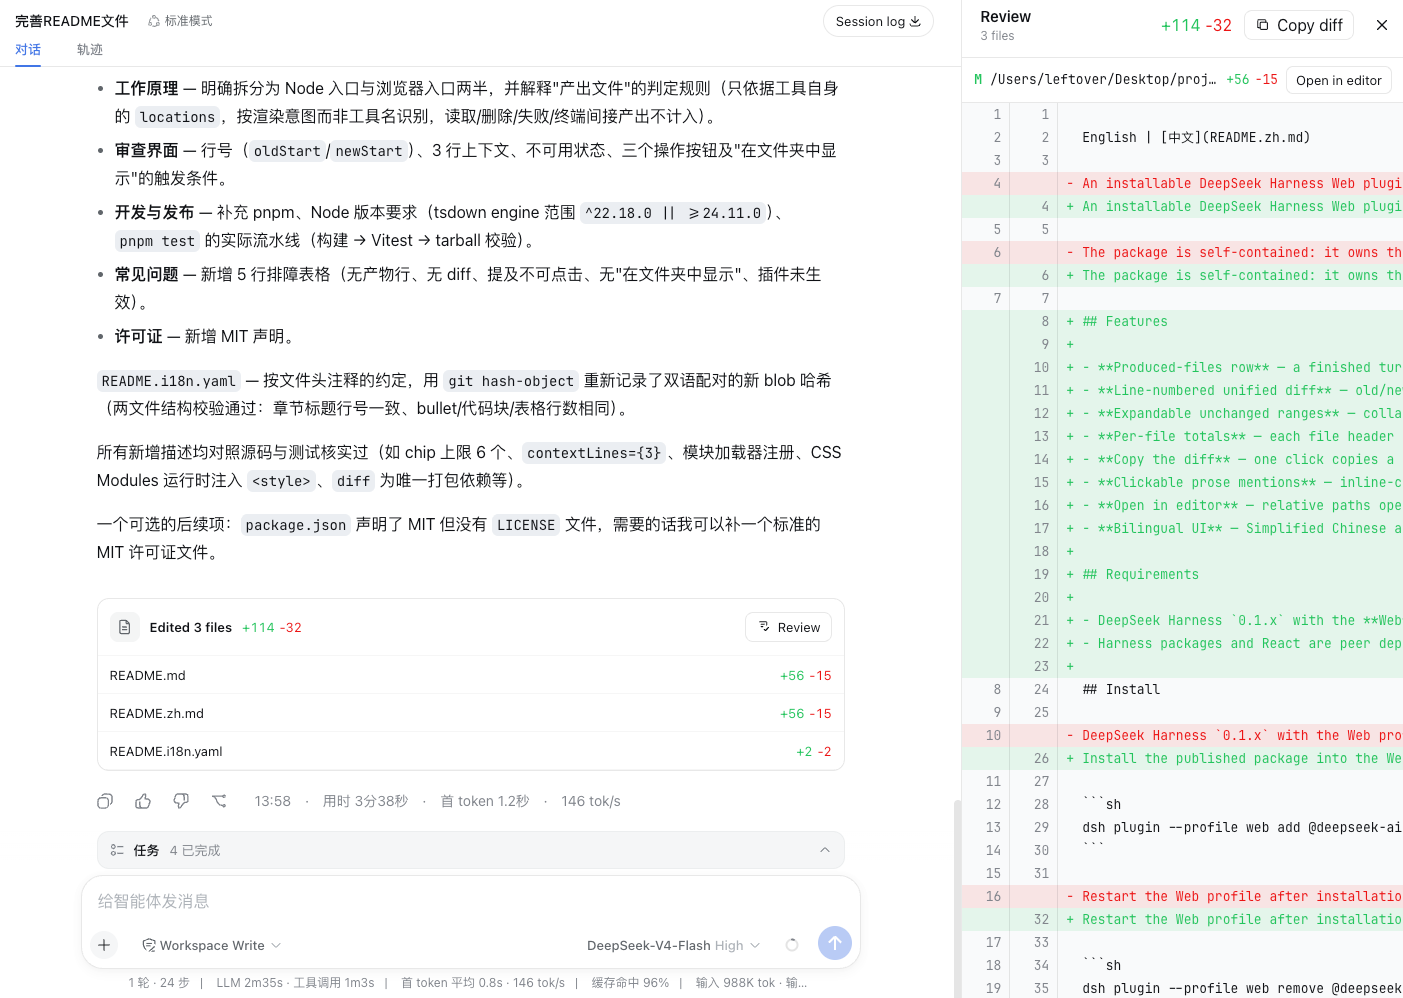
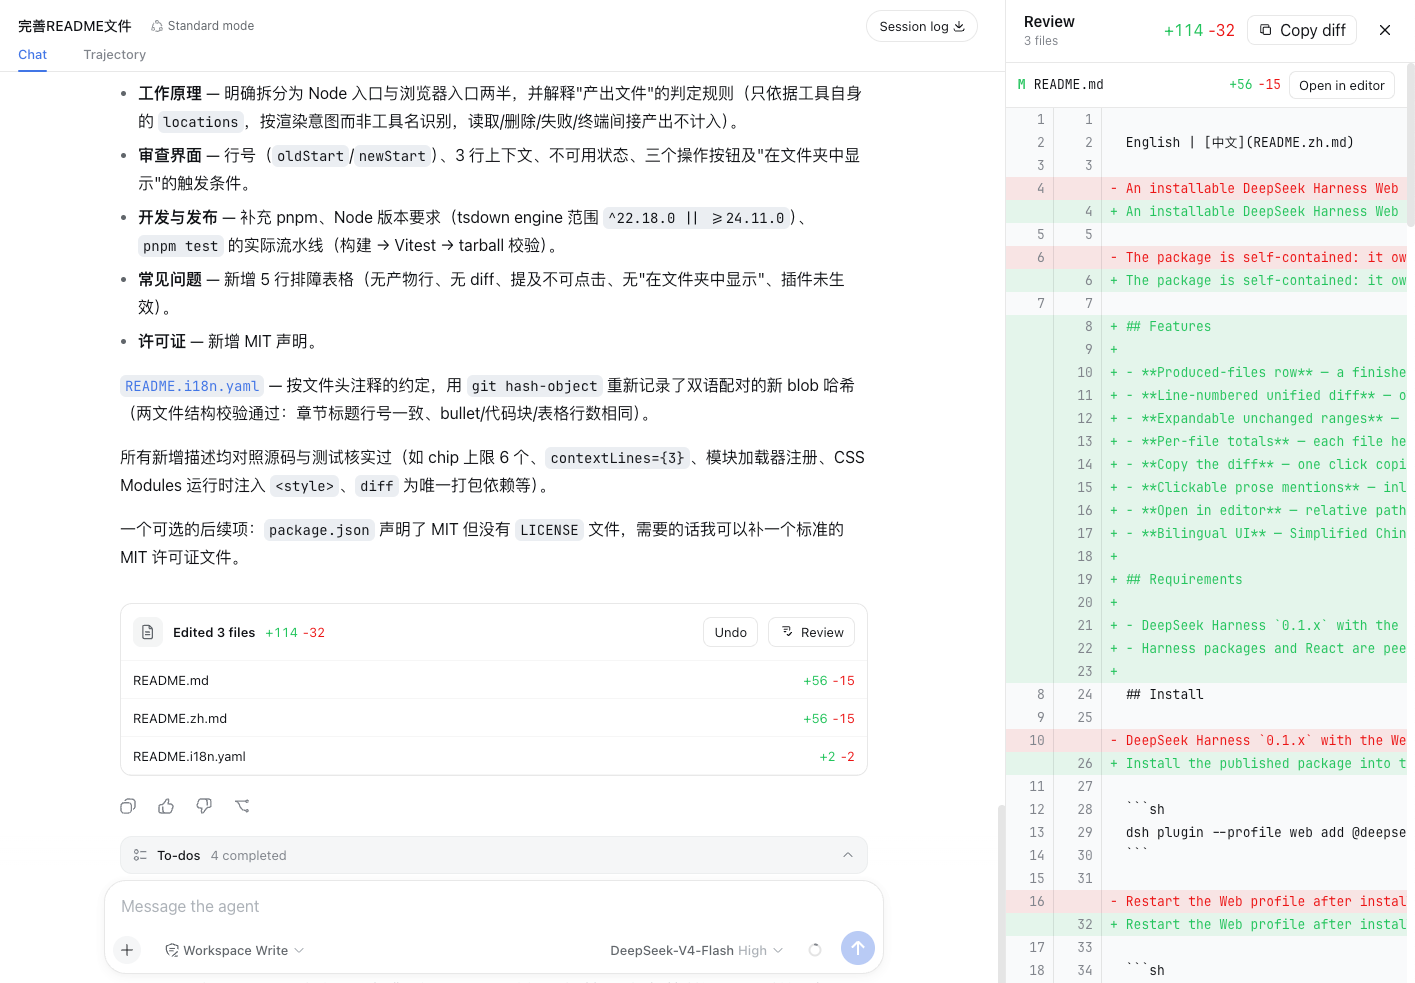
docs: update README

diff --git a/README.zh.md b/README.zh.md
@@ -2,10 +2,11 @@
 
 # DSH File Review
 
-**无需离开 DeepSeek Harness Web，立即审查 Agent 刚刚修改的每个文件。**
+**无需离开 DeepSeek Harness Web，即可立即审查 Agent 刚刚修改的每个文件。**
 
 ![DeepSeek Harness 0.1.x](https://img.shields.io/badge/DeepSeek%20Harness-0.1.x-4f46e5)
 ![Web profile](https://img.shields.io/badge/profile-Web-0ea5e9)
+[![npm version](https://img.shields.io/npm/v/dsh-file-review.svg)](https://www.npmjs.com/package/dsh-file-review)
 [![GitHub repository](https://img.shields.io/badge/GitHub-Repository-181717?logo=github)](https://github.com/left0ver/dsh-file-review)
 [![MIT License](https://img.shields.io/badge/license-MIT-22c55e)](LICENSE)
 
@@ -13,18 +14,18 @@
 
 </div>
 
-
-
-> **零配置：**安装插件、重启 Web profile，然后像平时一样使用 DeepSeek Harness 即可。
-
-# 怎么用
+## 怎么用
 
 <p align="center">
   <strong>💬 Chat &nbsp;→&nbsp; ✨ Generate &nbsp;→&nbsp; 📄 Click a changed file &nbsp;→&nbsp; 🔍 Review</strong>
 </p>
 
-# 效果预览
+## 效果预览
 ![leftover](./assests/preview.png)
+
+## 功能
+1. Diff面板，立即审查 Agent 刚刚修改的每个文件。
+2. 支持撤销操作，可以撤销Agent这一轮的修改。
 
 ## 快速开始
 
@@ -40,17 +41,8 @@ dsh plugin --profile web add dsh-file-review
 dsh web
 ```
 
-### 3. 审查下一轮产出
+### 3. 享受它
 
-让 Agent 创建或修改文件。本轮任务结束后：
-
-1. 在最终回复下方找到产物文件标签。
-2. 点击文件，打开对应 diff。
-3. 检查修改、展开隐藏上下文、复制 diff，或在编辑器中打开文件。
-
-```text
-Agent 修改文件  →  本轮任务完成  →  点击文件标签  →  审查差异
-```
 
 ## 从源码安装
 
@@ -62,6 +54,12 @@ pnpm run build
 dsh plugin --profile web add ${PWD}
 ```
 
+## 从GitHub仓库进行安装
+
+```sh
+dsh plugin --profile web add github:left0ver/dsh-file-review
+```
+
 ## 卸载插件
 
 ```sh
@@ -71,6 +69,7 @@ dsh plugin --profile web remove dsh-file-review
 ## 友情链接
 
 [LINUX DO](https://linux.do/) — 新的理想型社区
+
 ## 许可证
 
 [MIT](LICENSE)

diff --git a/README.md b/README.md
@@ -6,6 +6,7 @@
 
 ![DeepSeek Harness 0.1.x](https://img.shields.io/badge/DeepSeek%20Harness-0.1.x-4f46e5)
 ![Web profile](https://img.shields.io/badge/profile-Web-0ea5e9)
+[![npm version](https://img.shields.io/npm/v/dsh-file-review.svg)](https://www.npmjs.com/package/dsh-file-review)
 [![GitHub repository](https://img.shields.io/badge/GitHub-Repository-181717?logo=github)](https://github.com/left0ver/dsh-file-review)
 [![MIT License](https://img.shields.io/badge/license-MIT-22c55e)](LICENSE)
 
@@ -13,16 +14,20 @@ English · [简体中文](README.zh.md)
 
 </div>
 
-> **Zero configuration:** install the plugin, restart the Web profile, and use DeepSeek Harness as usual.
-
-# How to use
+## How to use
 
 <p align="center">
   <strong>💬 Chat &nbsp;→&nbsp; ✨ Generate &nbsp;→&nbsp; 📄 Click a changed file &nbsp;→&nbsp; 🔍 Review</strong>
 </p>
 
-# Preview
+## Preview
+
 ![leftover](./assests/preview.png)
+
+## Features
+
+1. A diff panel for instantly reviewing every file the agent just changed.
+2. Undo support for reverting the agent's changes from the current turn.
 
 ## Quick start
 
@@ -38,17 +43,7 @@ dsh plugin --profile web add dsh-file-review
 dsh web
 ```
 
-### 3. Review the next completed turn
-
-Ask the agent to create or edit files. When the turn finishes:
-
-1. Find the produced-file chips below the final response.
-2. Click a file to open its diff.
-3. Inspect the changes, expand hidden context, copy the diff, or open the file in your editor.
-
-```text
-Agent edits files  →  Turn completes  →  Click a file chip  →  Review the diff
-```
+### 3. Enjoy it
 
 ## Install from source
 
@@ -58,6 +53,12 @@ cd dsh-file-review
 pnpm install
 pnpm run build
 dsh plugin --profile web add ${PWD}
+```
+
+## Install from GitHub repository
+
+```sh
+dsh plugin --profile web add github:left0ver/dsh-file-review
 ```
 
 ## Uninstall the plugin
